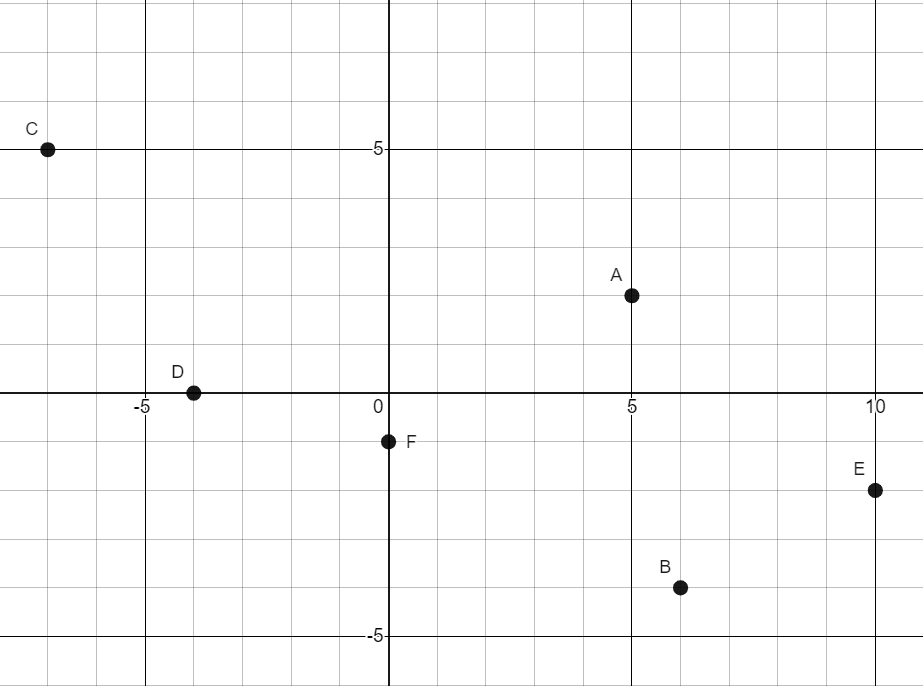
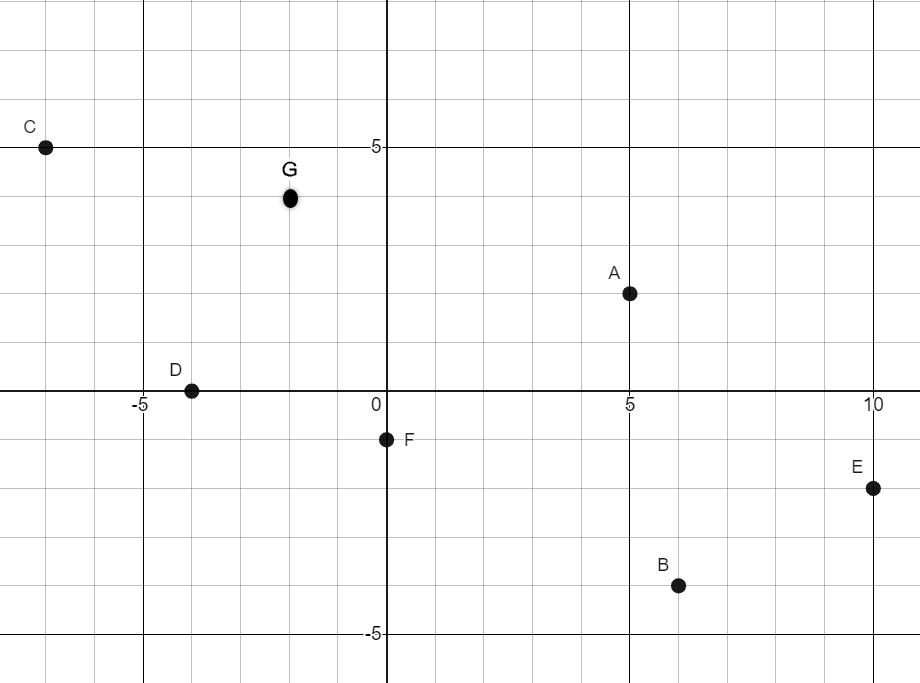
edits for Fall 23

diff --git a/u1s2.html b/u1s2.html
@@ -131,100 +131,87 @@
       <h2>1.2 Graphing Data</h2>
   <br>
 
-
+<p>Point A is graphed on the number line below.  The scale of the number line is 2 since the scale marks are 2 units apart.</p>
 
       
      
  <h3><b>Number Lines</b></h3>
-      <h4>Graph each point on the given number line.</h4>
+      <h4>Determine the scale of each number line.  Label <b>EVERY</b> scale mark.  Graph each point with a big dot at the appropriate location and label the point.</h4>
       <ol>
 <li>
         <div class="row">
-            <div class="col-sm-2">A = 1.3</div>
-            <div class="col-sm-2">B = 2.5</div>
-            <div class="col-sm-2">C = 1.4</div>
-            <div class="col-sm-2">D = 1.1</div>
+            <div class="col-sm-3">A = 2</div>
+            <div class="col-sm-3">B = 12</div>
+            <div class="col-sm-3">C = 7.5</div>
+           
         </div>
         
           
-          <p><img src="images/u2s1p1.png" alt="A number line numbered from 1 to 3 with ten intervals between whole numbers."></p>
+          <p><img src="images/u2s1p1.png" alt="A number line with 0 labeled on the left end, 4 labeled 4 units to the right, and 9 labeled 5 units further to the right. There are a total of 13 scale marks on the number line."></p>
           
           
-          <p class="solution"><img src="images/u2s1p1k.png" alt="Point D=1.1 is graphed at one scale mark to the right of 1. Point A=1.3 is three scale marks to the right of 1. Point C=1.4 is four scale marks to the right of 1. Point B=2.5 is five scale marks to the right of 2."></p>
+          <p class="solution"><img src="images/u2s1p1k.png" alt="Point A=2 is graphed at two scale marks to the right of 0. Point C=7.5 is seven and a half scale marks to the right of 0. Point B=12 is twelve scale marks to the right of 0. "></p>
 </li>
 <li>
         <div class="row">
-            <div class="col-sm-2">A = 8.25</div>
-            <div class="col-sm-2">B = 9.25</div>
-            <div class="col-sm-2">C = 10.5</div>
-            <div class="col-sm-2">D = 7.75</div>
+            <div class="col-sm-3">A = 250</div>
+            <div class="col-sm-3">B = 100</div>
+            <div class="col-sm-3">C = 0</div>
+          
         </div>
         
           
-          <p><img src="images/u2s1p2.png" alt="A number line numbered from 7 to 12 with four intervals between whole numbers."></p>
+          <p><img src="images/u2s1p2.png" alt="A number line numbered with 50 marked 2 scale marks in from the left and 175 marked 5 scale marks to the left of 50.."></p>
           
           
-          <p class="solution"><img src="images/u2s1p2k.png" alt="Point D=7.75 is graphed at three scale marks to the right of 7. Point A=8.25 is one scale mark to the right of 8. Point B=9.25 is one scale mark to the right of 9. Point C=10.5 is two scale marks to the right of 10."></p>
+          <p class="solution"><img src="images/u2s1p2k.png" alt="A number line starting at 0 and going to 250 with 20 scale marks, each representing 25 units.  Point C is marked at 0, the first scale mark on the left side of the graph.  Point B is marked at 100, four marks after the 0.  Point A is marked at 250 the farthest right scale mark."></p>
 </li>
 <li>
         <div class="row">
-            <div class="col-sm-2">A = 4.5</div>
-            <div class="col-sm-2">B = 3.5</div>
-            <div class="col-sm-2">C = 6.5</div>
-            <div class="col-sm-2">D = 2.5</div>
+            <div class="col-sm-2">A = 40</div>
+            <div class="col-sm-2">B = -30</div>
+            <div class="col-sm-2">C = 85</div>
+            
         </div>
         
           
-          <p><img src="images/u2s1p3.png" alt="A number line numbered from 2 to 8 with two intervals between whole numbers."></p>
+          <p><img src="images/u2s1p3.png" alt="A number line with 0 on the 4th scale mark from the left and 80 at the 8th scale mark to the right of 0."></p>
           
           
-          <p class="solution"><img src="images/u2s1p3k.png" alt="Point D=2.5 is graphed at one scale mark to the right of 2. Point B=3.5 is one scale mark to the right of 3. Point A=4.5 is one scale mark to the right of 4. Point C=6.5 is one scale mark to the right of 6."></p>
+          <p class="solution"><img src="images/u2s1p3k.png" alt="A number line that start at -40 and goes to 100 with each scale mark representing 10 units.  Point B is marked at -30 which is one mark from the left side of the number line.  Point A is marked at 40, which is 7 marks to the right of Point B.  Point C is marked at 85, which is 5 1/2 marks to the right of Point A."></p>
 </li>
 <li>
         <div class="row">
-            <div class="col-sm-2">A = 3.375</div>
-            <div class="col-sm-2">B = 4.25</div>
-            <div class="col-sm-2">C = 3.875</div>
-            <div class="col-sm-2">D = 3.5</div>
+            <div class="col-sm-2">A = 3.5</div>
+            <div class="col-sm-2">B = 0.5</div>
+            <div class="col-sm-2">C =-6</div>
+           
         </div>
         
           
-          <p><img src="images/u2s1p4.png" alt="A number line numbered from 3 to 5 with eight intervals between whole numbers."></p>
+          <p><img src="images/u2s1p4.png" alt="A number line with 24 scale marks.  2 is graphed 18 marks from the left.  3 is graphed 2 marks after 2.  4 is graphed 2 marks after 3, and 5 is marked 2 marks after 4."></p>
           
           
-          <p class="solution"><img src="images/u2s1p4k.png" alt="Point A=3.375 is graphed at three scale marks to the right of 3. Point D=3.5 is four scale marks to the right of 3. Point C=3.875 is seven scale marks to the right of 3. Point B=4.25 is two scale marks to the right of 4."></p>
+          <p class="solution"><img src="images/u2s1p4k.png" alt="A number linethat starts at -7 and goes to 5 with each scale mark representing 0.5 units.  Point C is graphed at -6, which is 2 marks from the left end of the number line.  Point B is graphed at 0.5 which is 15 marks from the left end of the number line.  Point A is graphed at 3.5, which is 21 marks from the left end of the number line."></p>
 </li>
 <li>
         <div class="row">
             <div class="col-sm-2">A = 6.8</div>
-            <div class="col-sm-2">B = 6.6</div>
+            <div class="col-sm-2">B = 6.4</div>
             <div class="col-sm-2">C = 5.2</div>
-            <div class="col-sm-2">D = 6.4</div>
+      
         </div>
         
           
-          <p><img src="images/u2s1p5.png" alt="A number line numbered from 5 to 7 with five intervals between whole numbers."></p>
+          <p><img src="images/u2s1p5.png" alt="A number line with 5 as the starting number, 6 labeled 5 scale marks to the right of 5, and 7 labeled 5 scale marks to the right of 6.."></p>
           
           
-          <p class="solution"><img src="images/u2s1p5k.png" alt="Point C is graphed at one scale mark to the right of 5. Point D=6.4 is two scale marks to the right of 6. Point B=6.6 is three scale marks to the right of 6. Point A=6.8 is four scale marks to the right of 6."></p>
+          <p class="solution"><img src="images/u2s1p5k.png" alt="Point C is graphed at 5.2, which is one scale mark to the right of 5. Point B is graphed at 6.4, which is two scale marks to the right of 6. Point A is graphed at 6.8, which is 4 scale marks to the right of 6."></p>
 </li>
-<li>
-        <div class="row">
-            <div class="col-sm-2">A = -1.4</div>
-            <div class="col-sm-2">B = -2.8</div>
-            <div class="col-sm-2">C = -2.6</div>
-            <div class="col-sm-2">D = -1.2</div>
-        </div>
-        
-          
-          <p><img src="images/u2s1p6.png" alt="A number line numbered from -3 to -1 with five intervals between integers."></p>
-          
-          
-          <p class="solution"><img src="images/u2s1p6k.png" alt="Point D=-1.2 is graphed at one scale mark to the left of -1. Point A=-1.4 is two scale marks to the left of -1. Point C=-2.6 is three scale marks to the left of -2. Point B=-2.8 is four scale marks to the left of -2."></p>
-</li>
+
 
 <h3><b>Graphing Points</b></h3>
-
+<h4>Point G is located at the ordered pair (-2,4)</h4>
 <li>
   <br>
 <p><img src="images/u4s1p2.png" alt="Coordinate plane graph with six points graphed. Point A is five units to the right of the origin and up two units. Point B is six units to the right of the origin and down four units. Point C is seven units to the left of the origin and up five units. Point D is four units to the left of the origin. Point E is ten units to the right of the origin and down two units. Point F is one unit down from the origin."></p>

diff --git a/u4s2.html b/u4s2.html
@@ -342,6 +342,86 @@
     
 </ol>
 
+<h3><b>Goldfish Smile Hypothesis Testing</b></h3>
+<p><img src="images/u4s2goldfish.png" alt="A decorative image of 6 goldfish crackers with the words Go Fish in the middle."></p>
+      
+<p><b>Claim: The proportion of all goldfish with smiles is "less than, equal to, or greater than" (choose one) ______% </b></p>
+
+<p>Your claim: _________________________</p>
+<p class="solution">One possible choice is to claim that p > .50. The solutions on the rest of the activity will be based on this claim. However, this is not what you are required to choose when you complete this in class. </p>
+
+<p>H<sub>0</sub>: _______________
+  <inline class="solution">\( p \leq .50 \)</inline>
+  <inline class="solution">p = .50</inline>
+  </p>
+  
+  <p>H<sub>a</sub>: _______________
+  <inline class="solution">\( p > 0.50\)</inline></p>
+  
+  <p> \( \alpha = .05\)</p>
+
+<h4>Sample Data</h4>
+
+<p>Number of goldfish in your sample: n = _______________
+<inline class="solution">100</inline></p>
+
+<p> Number of <b>SMILING</b> goldfish in your sample: x = _______________
+<inline class="solution">35</inline> </p>
+
+<p>\( \hat{p}=\frac{x}{n} \) (the sample proportion) = _______________
+<inline class="solution">.35</inline> </p>
+
+<p>Test Statistic: _____________________</p>
+<br>
+<p>p-value: ______________________</p>
+<br>
+
+<p>Decision: __________________________________________________
+<inline class="solution">Fail to reject the null hypothesis</inline>
+
+</p>
+
+<p>Concluding Statement:</p>
+<br>
+<br>
+<br>
+<br>
+<br>
+<br>
+<br>
+<br>
+
+<p class="solution">There is not sufficient evidence to support the claim that the proportion of all goldfish with smiles is greater than 50%.</p>
+
+<h3>Confidence Intervals</h3>
+<p><img src="images/u4s2goldfish2.png" alt="A decorative image of 3 goldfish crackers."></p>
+
+<h4>Sample Data</h4>
+
+<p>Number of goldfish in your sample: n = _______________
+<inline class="solution">100</inline></p>
+
+<p> Number of <b>SMILING</b> goldfish in your sample: x = _______________
+<inline class="solution">35</inline> </p>
+
+<p>\( \hat{p}=\frac{x}{n} \) (the sample proportion) = _______________
+<inline class="solution">.35</inline> </p>
+
+<ol>
+<li>Use the sample to construct a 95% confidence interval for the proportion of smiling goldfish.
+<ol>
+  <li>Best Point Estimate: _________________________</li>
+  <li>Find the 95% confidence interval estimate of the population proportion p.</li>
+  <p class="solution">\( (0.257, 0.443) \)
+  <br><br><br>
+  <li>Find the margin of error (E) that corresponds to a 95% confidence level.
+    <p>E = ______________________</p>
+  </li>
+</ol>   
+</li>
+<li>How does your confidence interval indicate the decision you should make about whether or not you should reject H<sub>0? </li>
+</ol>
+
 
 
 

diff --git a/u4s3.html b/u4s3.html
@@ -302,67 +302,10 @@
       </ol>
       <p style="page-break-before: always"></p>
       
-      <h3><b>Goldfish Smile Hypothesis Testing</b></h3>
-      
-      <p><b>Claim: The proportion of all goldfish with smiles is "less than, equal to, or greater than" 50% (choose one)</b></p>
-      
-      <p>Your claim: _________________________</p>
-      <p class="solution">One possible choice is to claim that p > .50. The solutions on the rest of the activity will be based on this claim. However, this is not what you are required to choose when you complete this in class. </p>
-      
-      <h4>Sample Data</h4>
-      
-      <p>Number of goldfish: n = _______________
-      <inline class="solution">100</inline></p>
-      
-      <p> Number of SMILING goldfish: x = _______________
-      <inline class="solution">35</inline> </p>
-      
-      <p>\( \hat{p}=\frac{x}{n} \) (the sample proportion) = _______________
-      <inline class="solution">.35</inline> </p>
-      
-      <p>H<sub>0</sub>: _______________
-      <inline class="solution">\( p \leq .50 \)</inline>
-      <inline>assume H<sub>0</sub>: _______________</inline>
-      <inline class="solution">p = .50</inline>
-      </p>
-      
-      <p>H<sub>a</sub>: _______________
-      <inline class="solution">\( p > 0.50\)</inline></p>
-      
-      <p> \( \alpha = .05\)</p>
+     
+  
       
       
-      
-      <p>Decision: __________________________________________________
-      <inline class="solution">Fail to reject the null hypothesis</inline>
-      
-      </p>
-      
-      <p>Concluding Statement:</p>
-     <br>
-     <br>
-     <br>
-     <br>
-     <br>
-     <br>
-     <br>
-     <br>
-      
-      <p class="solution">There is not sufficient evidence to support the claim that the proportion of all goldfish with smiles is greater than 50%.</p>
-      
-      <p><b>Use the sample to construct a 95% confidence interval for the proportion of smiling goldfish.</b>___________________________________</p>
-      <p class="solution">\( (0.257, 0.443) \)/p>
-      
-      
-      <p>What decision about your claim should you make based on the confidence interval?</p>
-    <br>
-    <br>
-    <br>
-
-      
-      
-      
-      <p style="page-break-before: always"></p>
       
       <h3>Comparing Hypothesis Testing for the Mean and Hypothesis Testing for a Proportion</h3>
       <style type="text/css">
